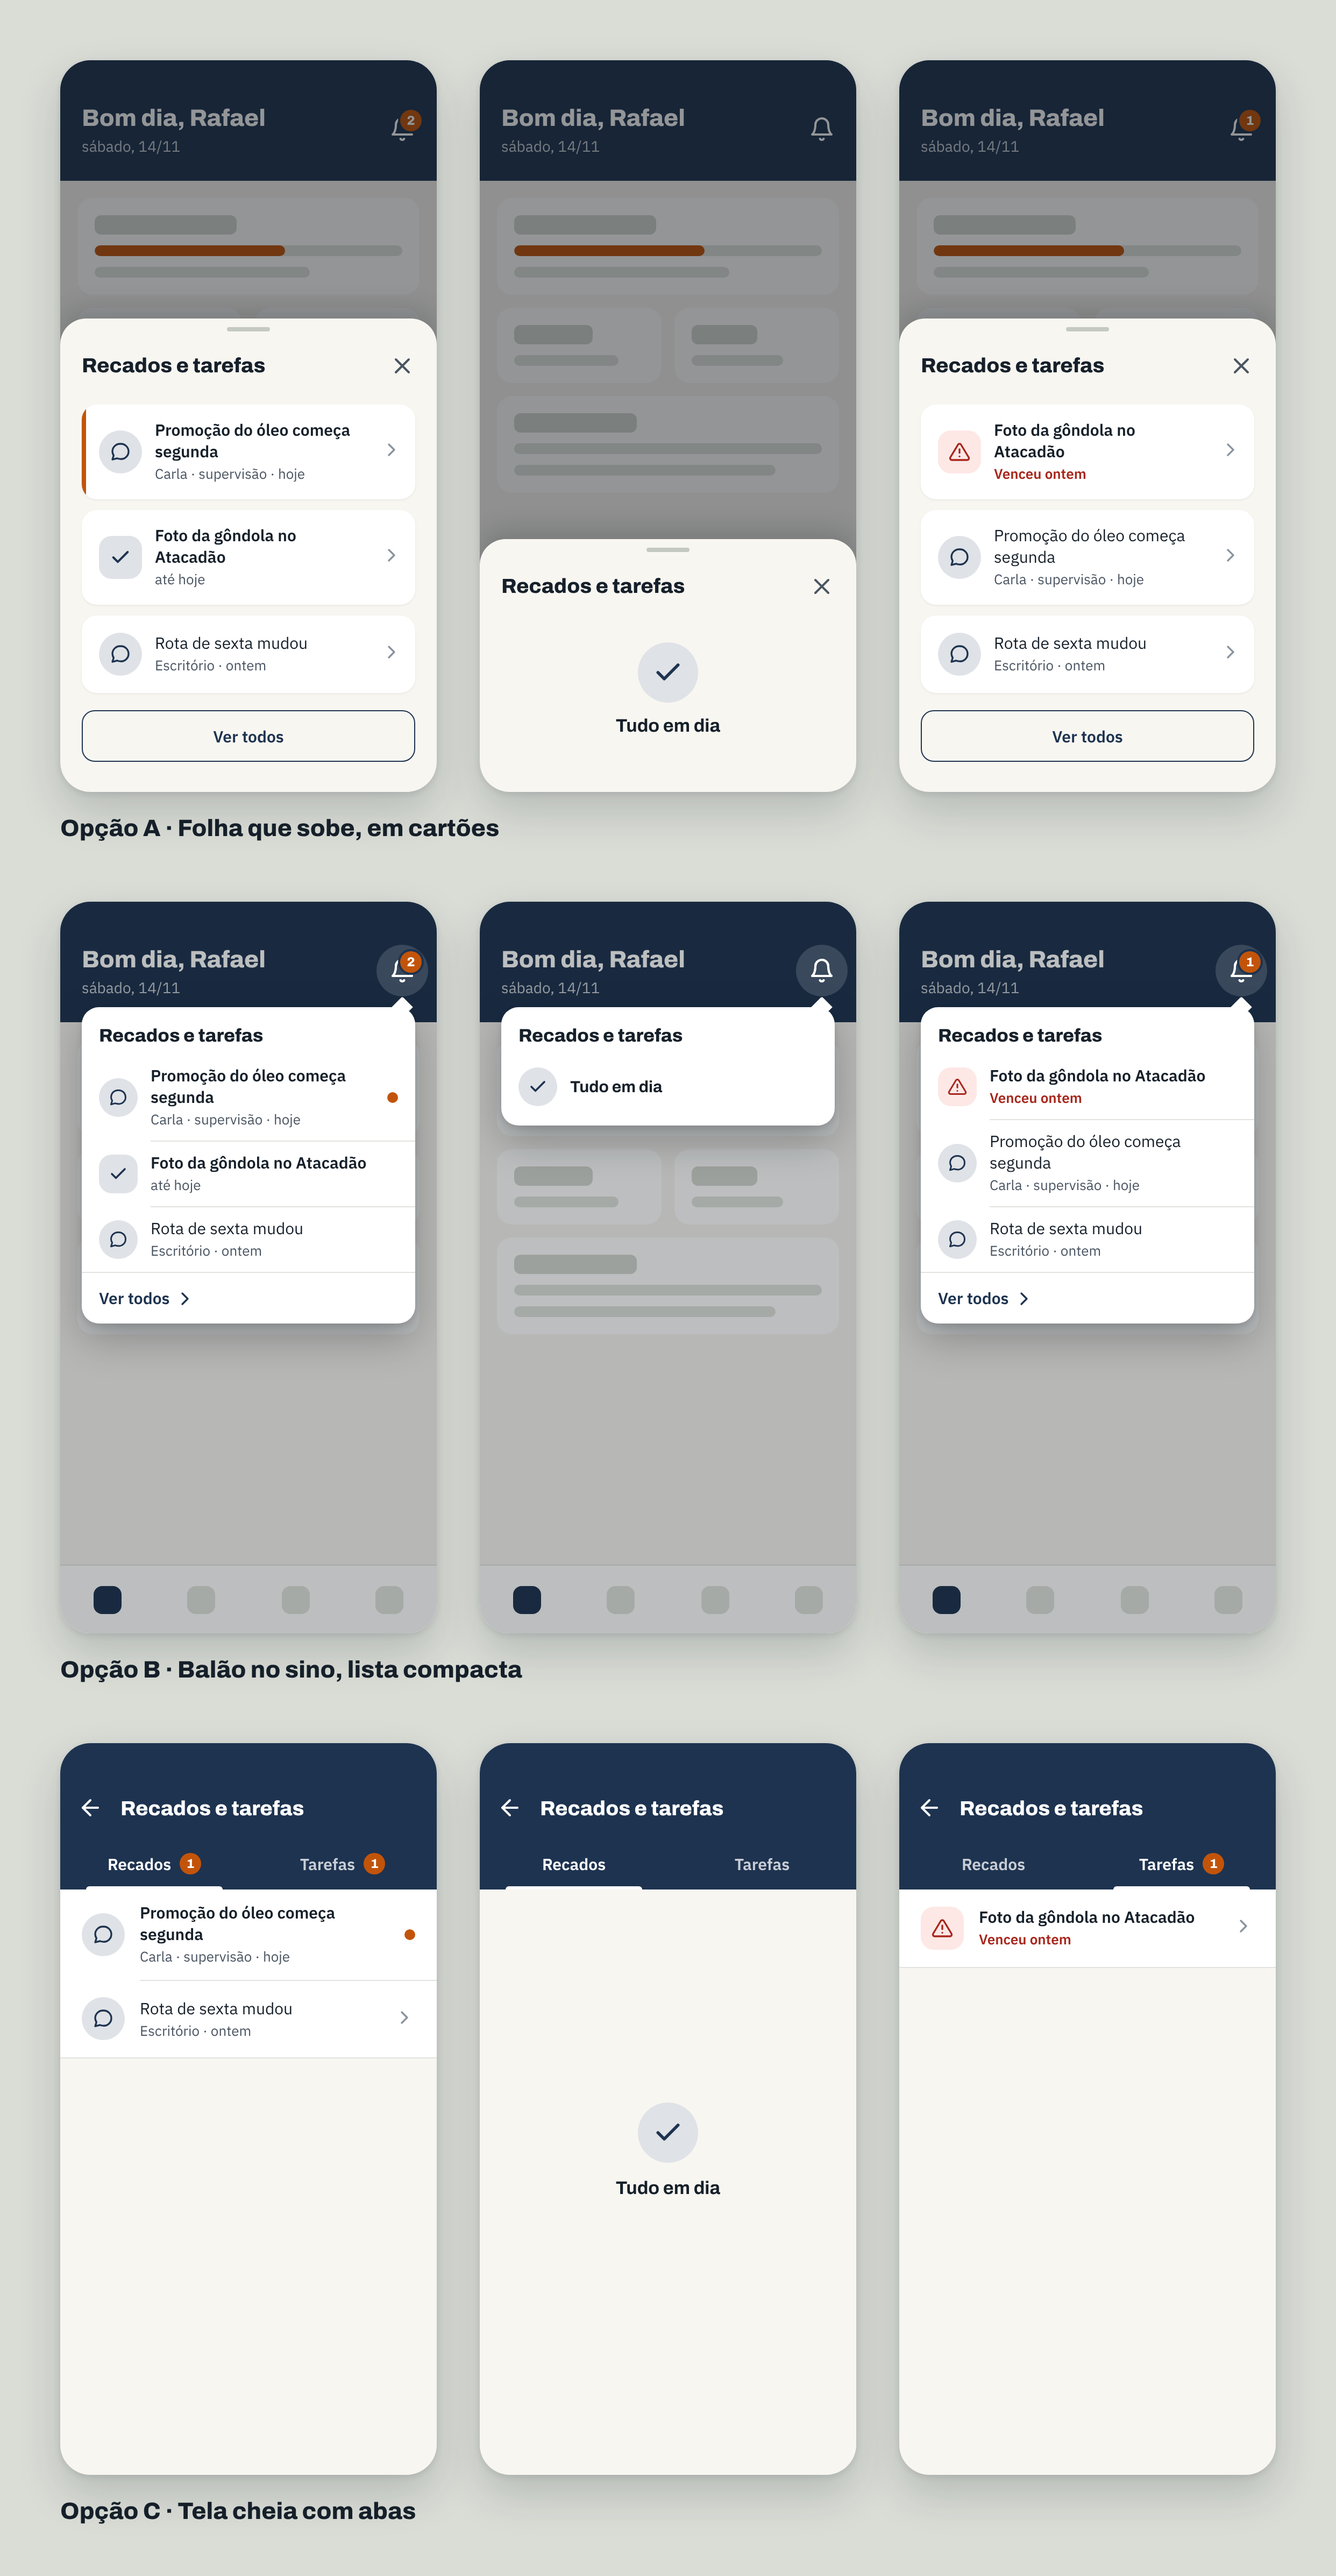
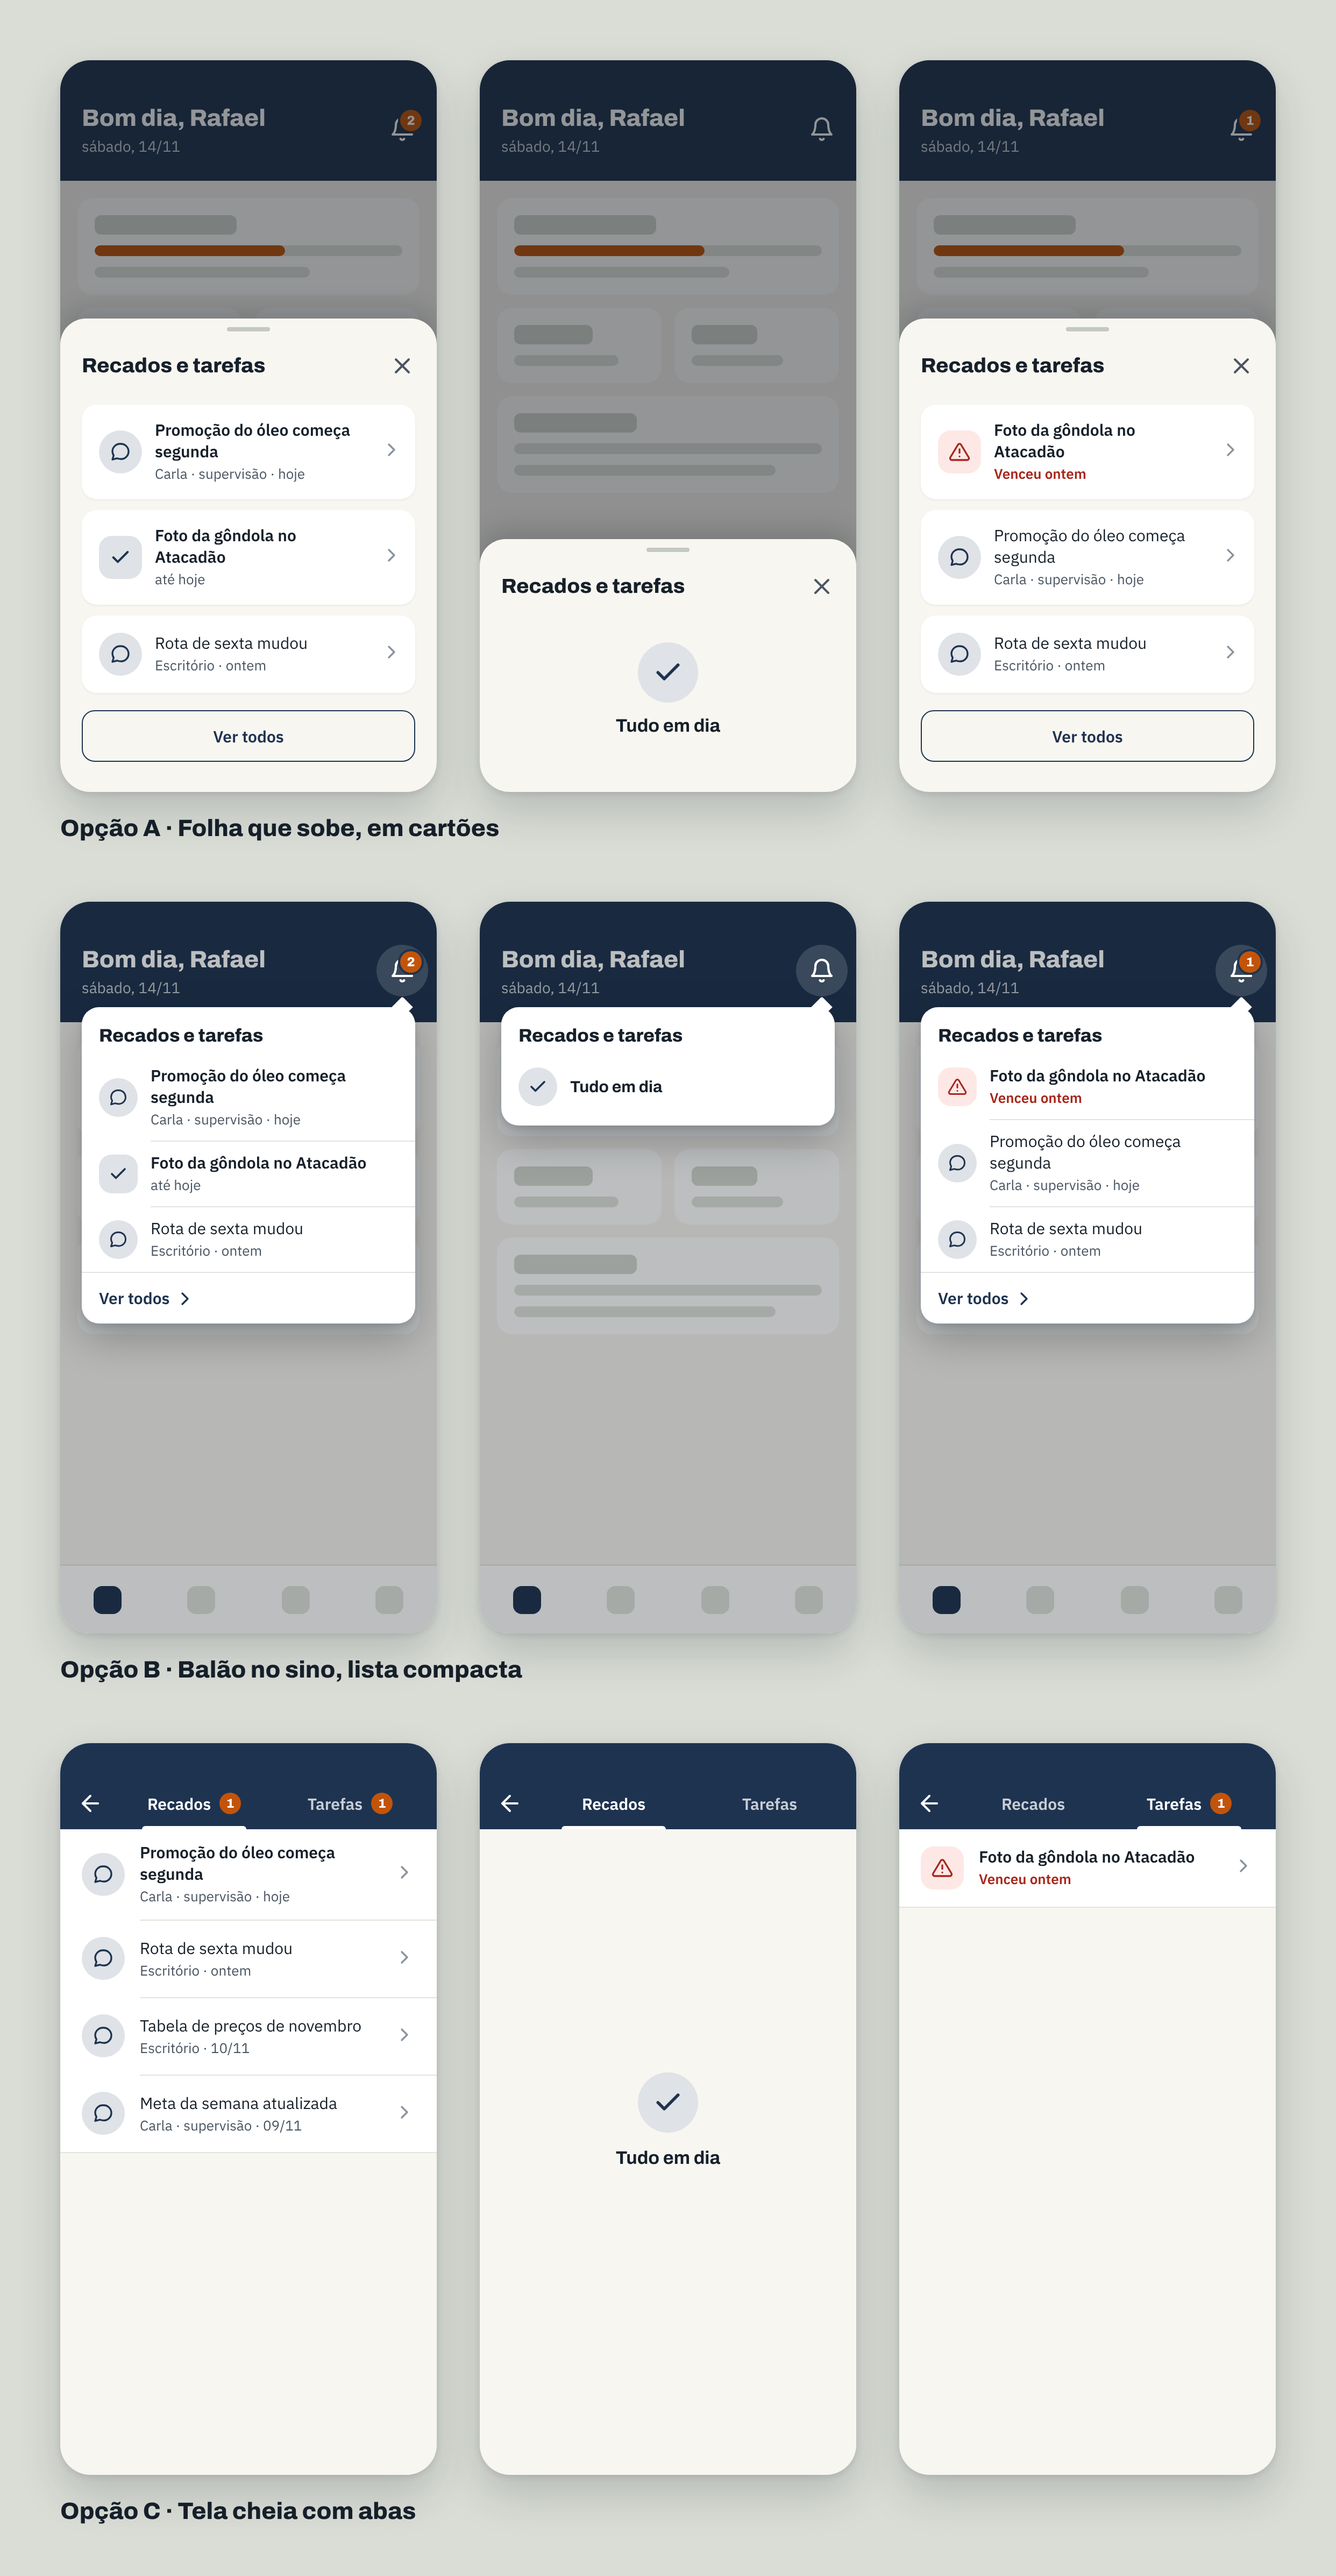
Oficial: designer-ux — recados-opcoes sem marcas repetidas (parecer do corretor)
Agente: designer-ux

Claude-Session: https://claude.ai/code/session_0157qAhjZXiQk7JnMJdWfDuh

Changed region(s): [[0.031, 0.6846, 0.961, 0.8402], [0.465, 0.8091, 0.527, 0.8402]]

diff --git a/docs/design/telas/recados-opcoes.html b/docs/design/telas/recados-opcoes.html
@@ -60,7 +60,6 @@ body { background: #DADDD6; font-family: Plex, sans-serif; color: var(--tinta); 
 .a { font-size: 13px; line-height: 18px; color: var(--tinta2); margin-top: 2px; }
 .a.venceu { color: var(--erro); font-weight: 600; }
 .txt { flex: 1; min-width: 0; }
-.ponto { flex: none; width: 10px; height: 10px; border-radius: 50%; background: var(--sol); }
 .chev { flex: none; color: #8A939D; }
 .vazio-t { font-family: Archivo; font-weight: 700; font-size: 17px; color: var(--tinta); }
 
@@ -74,7 +73,6 @@ body { background: #DADDD6; font-family: Plex, sans-serif; color: var(--tinta); 
 .cartoes { display: flex; flex-direction: column; gap: 10px; padding: 4px 20px 0; }
 .cartao { position: relative; background: #fff; border-radius: 14px; min-height: 72px; padding: 14px 12px 14px 16px; display: flex; align-items: center; gap: 12px;
   overflow: hidden; box-shadow: 0 1px 2px rgba(22,32,42,.06); }
-.cartao.novo::before { content: ''; position: absolute; left: 0; top: 0; bottom: 0; width: 4px; background: var(--sol); }
 .botao2 { margin: 16px 20px 0; height: 48px; border-radius: 12px; border: 1.5px solid var(--noite); color: var(--noite);
   display: grid; place-items: center; font-weight: 600; font-size: 15px; background: transparent; }
 .folha-vazio { display: flex; flex-direction: column; align-items: center; gap: 12px; padding: 20px 20px 24px; }
@@ -96,10 +94,8 @@ body { background: #DADDD6; font-family: Plex, sans-serif; color: var(--tinta); 
 
 /* Opção C · tela cheia com abas */
 .cab { background: var(--noite); padding-top: 32px; }
-.cab-l { display: flex; align-items: center; height: 56px; padding: 0 20px 0 4px; gap: 4px; }
-.cab-l h2 { font-family: Archivo; font-weight: 800; font-size: 19px; color: #fff; }
-.voltar { width: 48px; height: 48px; display: grid; place-items: center; color: #fff; }
-.abas { display: flex; }
+.voltar { flex: none; width: 48px; height: 48px; display: grid; place-items: center; color: #fff; }
+.abas { display: flex; align-items: center; padding: 0 8px 0 4px; }
 .aba { flex: 1; height: 48px; display: flex; align-items: center; justify-content: center; gap: 8px; color: var(--faixa2); font-weight: 600; font-size: 15px; position: relative; }
 .aba.ativa { color: #fff; }
 .aba.ativa::after { content: ''; position: absolute; left: 24px; right: 24px; bottom: 0; height: 3px; border-radius: 3px 3px 0 0; background: #fff; }
@@ -109,7 +105,7 @@ body { background: #DADDD6; font-family: Plex, sans-serif; color: var(--tinta); 
 .lc > .ic { align-self: center; }
 .lc .cx { flex: 1; min-width: 0; min-height: 72px; margin-left: 14px; padding: 12px 20px 12px 0; display: flex; align-items: center; gap: 12px; }
 .lc + .lc .cx { border-top: 1px solid var(--linha); }
-.c-vazio { position: absolute; left: 0; right: 0; top: 136px; bottom: 0; display: flex; flex-direction: column; align-items: center; justify-content: center; gap: 14px; padding-bottom: 60px; }
+.c-vazio { position: absolute; left: 0; right: 0; top: 80px; bottom: 0; display: flex; flex-direction: column; align-items: center; justify-content: center; gap: 14px; padding-bottom: 60px; }
 </style>
 </head>
 <body>
@@ -138,8 +134,12 @@ const R1 = { tipo: 'recado', titulo: 'Promoção do óleo começa segunda', apoi
 const R1lido = { ...R1, novo: false };
 const T1 = { tipo: 'tarefa', titulo: 'Foto da gôndola no Atacadão', apoio: 'até hoje', fazer: true };
 const R2 = { tipo: 'recado', titulo: 'Rota de sexta mudou', apoio: 'Escritório · ontem' };
+const R3 = { tipo: 'recado', titulo: 'Tabela de preços de novembro', apoio: 'Escritório · 10/11' };
+const R4 = { tipo: 'recado', titulo: 'Meta da semana atualizada', apoio: 'Carla · supervisão · 09/11' };
 const TV = { tipo: 'vencida', titulo: 'Foto da gôndola no Atacadão', apoio: 'Venceu ontem', fazer: true, venceu: true };
-const ESTADOS = { cheio: { itens: [R1, T1, R2], contador: 2 }, vazio: { itens: [], contador: 0 }, vencida: { itens: [TV, R1lido, R2], contador: 1 } };
+// A e B mostram só os 3 primeiros; os outros ficam para "Ver todos".
+const VISIVEIS = 3;
+const ESTADOS = { cheio: { itens: [R1, T1, R2, R3, R4], contador: 2 }, vazio: { itens: [], contador: 0 }, vencida: { itens: [TV, R1lido, R2, R3, R4], contador: 1 } };
 
 const textos = (it) => `<div class="txt"><div class="t ${it.novo || it.fazer ? 'forte' : ''}">${it.titulo}</div><div class="a ${it.venceu ? 'venceu' : ''}">${it.apoio}</div></div>`;
 
@@ -163,7 +163,7 @@ const opcaoA = ({ itens, contador }) => `<div class="ap">${inicio(contador)}
   <div class="folha">
     <div class="pega"></div>
     <div class="folha-cab"><h2>Recados e tarefas</h2><span class="x">${I.x}</span></div>
-    ${itens.length ? `<div class="cartoes">${itens.map((it) => `<div class="cartao ${it.novo ? 'novo' : ''}">${icone(it.tipo, 40)}${textos(it)}<span class="chev">${I.chev}</span></div>`).join('')}</div>
+    ${itens.length ? `<div class="cartoes">${itens.slice(0, VISIVEIS).map((it) => `<div class="cartao">${icone(it.tipo, 40)}${textos(it)}<span class="chev">${I.chev}</span></div>`).join('')}</div>
     <div class="botao2">Ver todos</div>`
     : `<div class="folha-vazio">${icone('ok', 56)}<div class="vazio-t">Tudo em dia</div></div>`}
   </div></div>`;
@@ -175,7 +175,7 @@ const opcaoB = ({ itens, contador }) => `<div class="ap">${inicio(contador)}
   <div class="balao ${itens.length ? '' : 'vazio'}">
     <span class="seta"></span>
     <h2>Recados e tarefas</h2>
-    ${itens.length ? itens.map((it) => `<div class="lin">${icone(it.tipo, 36)}<div class="cx">${textos(it)}${it.novo ? '<span class="ponto"></span>' : ''}</div></div>`).join('')
+    ${itens.length ? itens.slice(0, VISIVEIS).map((it) => `<div class="lin">${icone(it.tipo, 36)}<div class="cx">${textos(it)}</div></div>`).join('')
       + `<div class="rodape">Ver todos <span style="display:grid">${I.chev}</span></div>`
     : `<div class="lin">${icone('ok', 36)}<div class="cx"><div class="vazio-t" style="font-size:15px">Tudo em dia</div></div></div>`}
   </div></div>`;
@@ -183,13 +183,13 @@ const opcaoB = ({ itens, contador }) => `<div class="ap">${inicio(contador)}
 // C · tela cheia com abas
 const opcaoC = ({ aba, recados, tarefas, itens }) => `<div class="ap">
   <div class="cab">
-    <div class="cab-l"><span class="voltar">${I.voltar}</span><h2>Recados e tarefas</h2></div>
     <div class="abas">
+      <span class="voltar">${I.voltar}</span>
       <div class="aba ${aba === 'recados' ? 'ativa' : ''}">Recados${recados ? `<span class="pill">${recados}</span>` : ''}</div>
       <div class="aba ${aba === 'tarefas' ? 'ativa' : ''}">Tarefas${tarefas ? `<span class="pill">${tarefas}</span>` : ''}</div>
     </div>
   </div>
-  ${itens.length ? `<div class="lista">${itens.map((it) => `<div class="lc">${icone(it.tipo, 40)}<div class="cx">${textos(it)}${it.novo ? '<span class="ponto"></span>' : `<span class="chev">${I.chev}</span>`}</div></div>`).join('')}</div>`
+  ${itens.length ? `<div class="lista">${itens.map((it) => `<div class="lc">${icone(it.tipo, 40)}<div class="cx">${textos(it)}<span class="chev">${I.chev}</span></div></div>`).join('')}</div>`
   : `<div class="c-vazio">${icone('ok', 56)}<div class="vazio-t">Tudo em dia</div></div>`}
   </div>`;
 
@@ -197,7 +197,7 @@ const fileiras = [
   ['Opção A · Folha que sobe, em cartões', ['cheio', 'vazio', 'vencida'].map((e) => opcaoA(ESTADOS[e]))],
   ['Opção B · Balão no sino, lista compacta', ['cheio', 'vazio', 'vencida'].map((e) => opcaoB(ESTADOS[e]))],
   ['Opção C · Tela cheia com abas', [
-    opcaoC({ aba: 'recados', recados: 1, tarefas: 1, itens: [R1, R2] }),
+    opcaoC({ aba: 'recados', recados: 1, tarefas: 1, itens: [R1, R2, R3, R4] }),
     opcaoC({ aba: 'recados', recados: 0, tarefas: 0, itens: [] }),
     opcaoC({ aba: 'tarefas', recados: 0, tarefas: 1, itens: [TV] }),
   ]],
